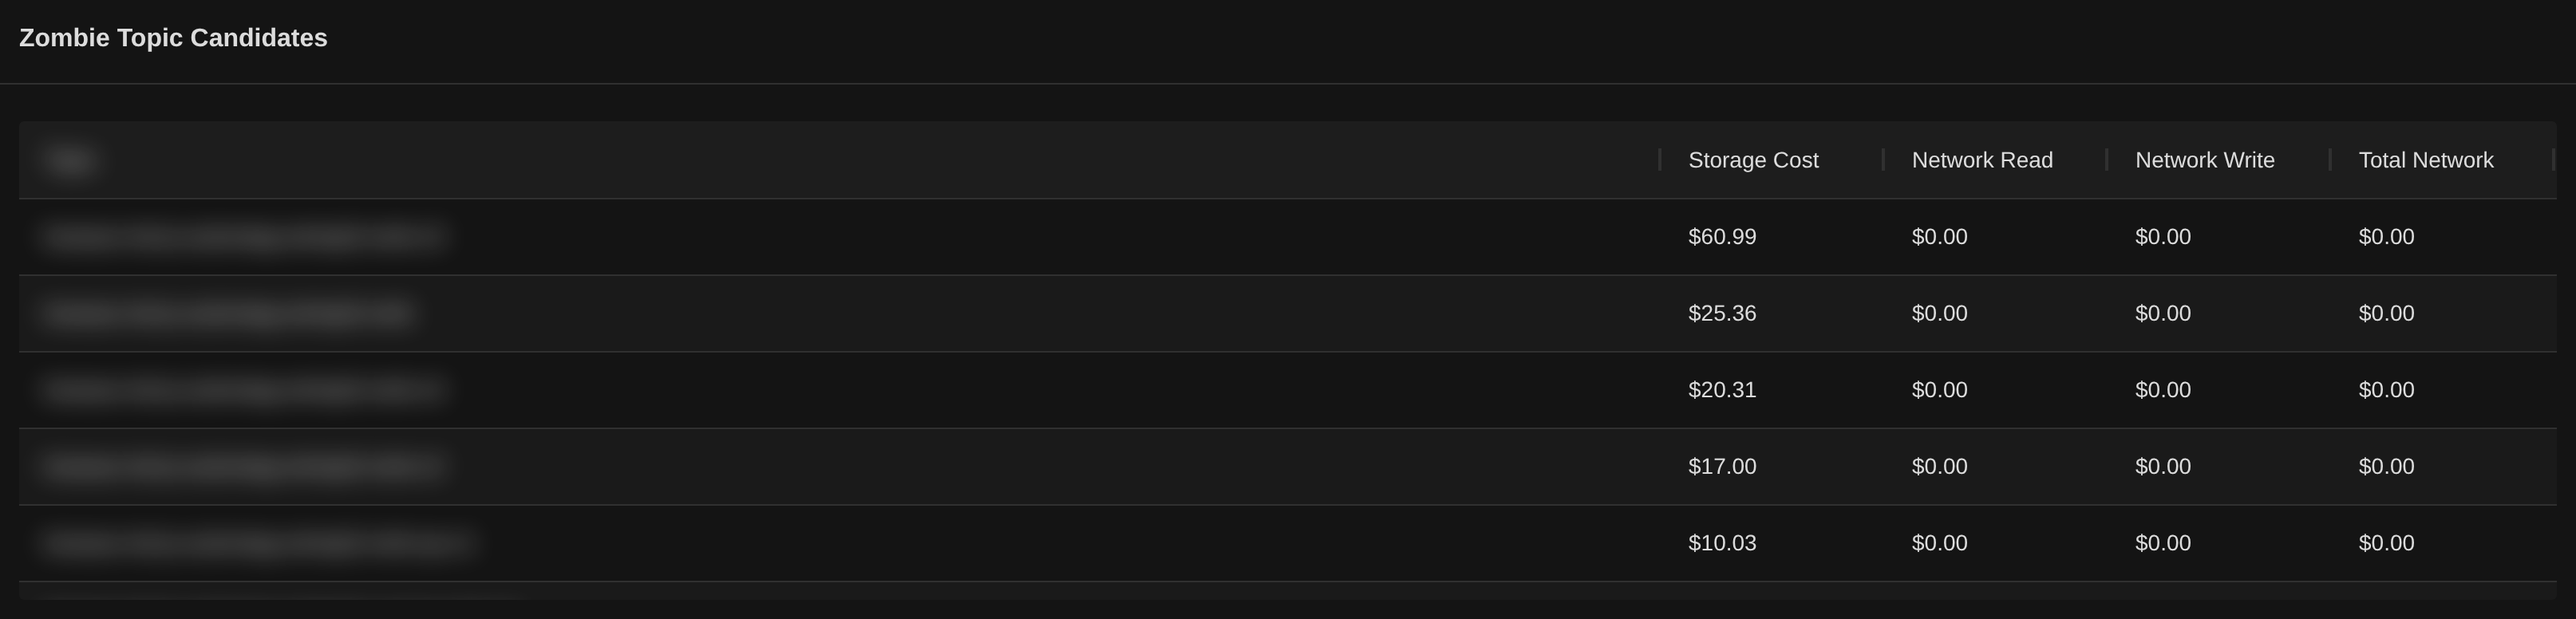
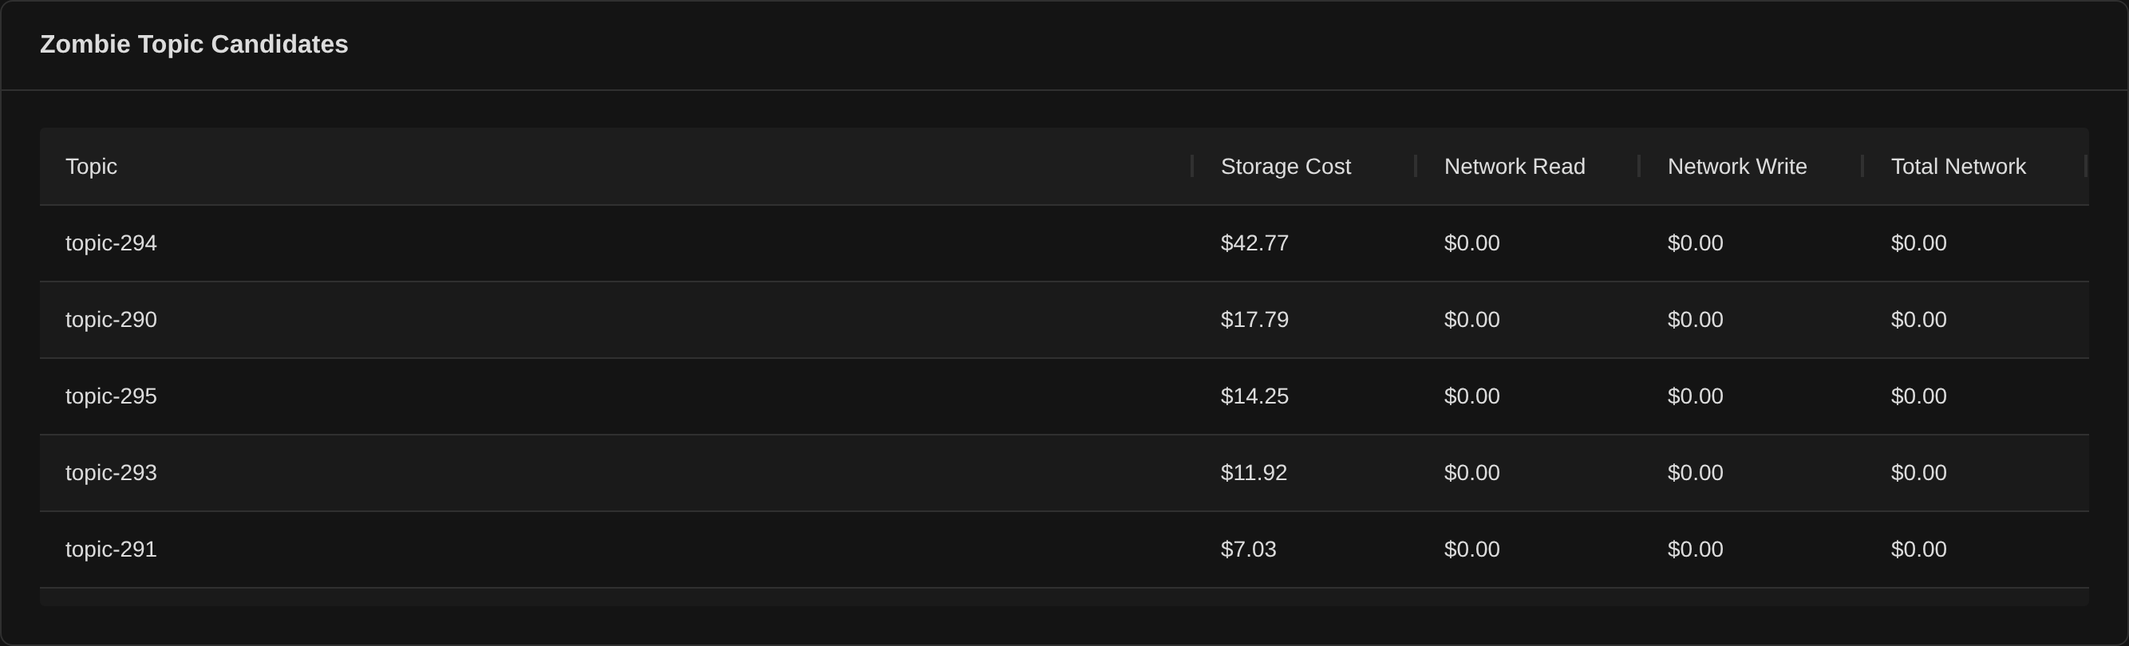
Anonymize topic names and update cost figures in Kafka attribution blog post

diff --git a/content/blog/topic-level-kafka-cost-attribution/index.md b/content/blog/topic-level-kafka-cost-attribution/index.md
@@ -162,9 +162,9 @@ topics
 
 Non-zero storage cost (you're paying to keep it), near-zero network cost (nobody is touching it). Sort by storage descending, and the most expensive zombies float to the top.
 
-![Zombie Topic Candidates table from chitragupta. Topic names are blurred for privacy, but the cost columns show storage costs of $60.99, $25.36, $20.31, $17.00, and $10.03 with $0.00 network read, write, and total network for every row.](zombie-candidates.png)
+![Zombie Topic Candidates table from chitragupta. Topic names are anonymized as topic-N for this post, and the cost columns show storage costs of $42.77, $17.79, $14.25, $11.92, and $7.03 with $0.00 network read, write, and total network for every row.](zombie-candidates.png)
 
-Five topics on this page alone, $133 of storage cost between them, zero traffic. None of them should still exist.
+Five topics on this page alone, $94 of storage cost between them, zero traffic. None of them should still exist.
 
 This is twenty lines of frontend code, not a backend feature. It works because the topic attribution table already has per-topic per-product-type cost rows. Ask a new question with a filter and a sort, and the answer falls out. I'm a big proponent of this pattern: build the data layer right, and new features come comparatively cheap. More on how that data layer is structured in the next post.
 
